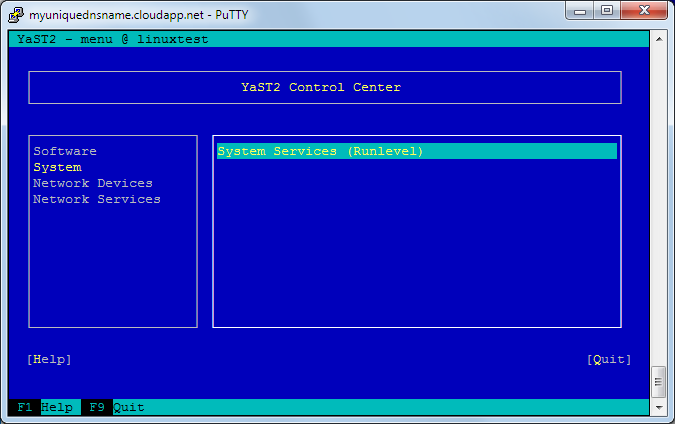
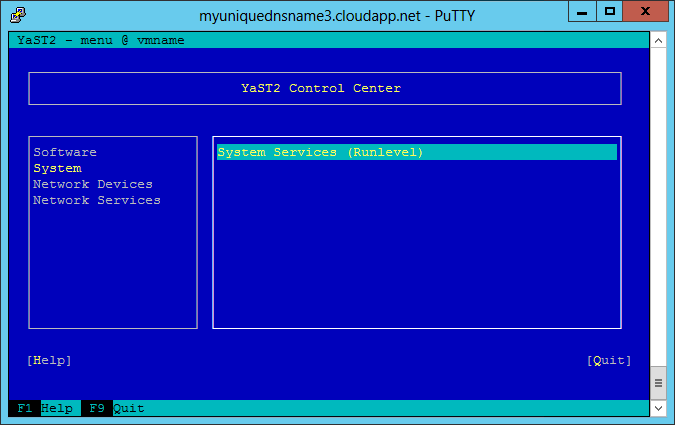
- Fixed issue with Linux prerequisites. - Updated screenshots.

diff --git a/README.md b/README.md
@@ -12,18 +12,6 @@ In this Hands-on Lab, you will learn how to use the Windows Azure IaaS platform 
 
 Visit our [GitHub Homepage](http://windowsazure-trainingkit.github.com/) for more information about the **Windows Azure Training Kit**.
 
-### Repository Structure ###
-
-In the **root** folder of this repository you will find the Hands-On Lab (HOL) document, **HOL.md**. Before beginning with the HOL exercises, make sure you have followed all the required steps indicated at the setup section of the HOL document. 
-
-In the **Source** folder you will find the source code of each of the exercises, as well as the assets and setup scripts. Throughout the HOL you will be instructed to open and explore the different solutions from the source folder. It is typically comprised of the following subfolders:
-
-- **Assets:** This folder contains files that are used throughout the exercises.
-- **_Exercise Name_:** Each exercise that requires a programming solution has its own code folder.
-  - **Begin:** The begin solution is the initial incomplete solution that you will finish by following the steps of the corresponding exercise.
-  - **End:** The end solution is the final result you will achieve at the end of an exercise.
-- **Setup:** This folder contains the dependency files and the setup scripts necessary to initialize specific configurations of the lab, being its execution is required in the majority of the Hands-on Labs.
-
 ### Get Started ###
 
 In order to run the solutions of the exercises provided by this lab you will first need configure your environment and install any necessary prerequisites such as runtimes, components, or libraries. For your ease, you can download and run the dependency checker [here] (http://contentinstaller.blob.core.windows.net/dependency-checker/DC.exe) to automatically check and install all the requirements.  Each lab also includes setup instructions for getting started.

diff --git a/HOL.md b/HOL.md
@@ -213,11 +213,13 @@ In this task, you will install and configure an Apache HTTP Server and MySQL Dat
 	
 	_Configuring HTTP Server_
 
-1. Follow the Wizard steps to complete the configuration using the default values.
+1. Follow the Wizard steps pressing **F10** on each step to complete the configuration using the default values.
 
-1. Select **Network Services**. Press the right arrow key and select **HTTP Server** again.
+	![HTTP Service Setup Wizard](images/http-service-setup-wizard.png?raw=true "HTTP Service Setup Wizard")
 
-1. Press **ALT+E** to enable the HTTP services and then press **ALT+F** to confirm the changes.
+	_HTTP Service Setup Wizard_
+
+1. Select **Network Services** and select **HTTP Server** again. Press **ALT+E** to enable the HTTP services and then press **ALT+F** to confirm the changes.
 
 	![Enabling HTTP service](images/enabling-http-service.png?raw=true)
 
@@ -229,7 +231,7 @@ In this task, you will install and configure an Apache HTTP Server and MySQL Dat
 
 	_Configuring System Services_
 
-1. Scroll down until you find **mysql** and press **ALT+E** to enable the service. Wait until the service is running. Press **F10** to save the settings.
+1. Scroll down until you find **mysql** and press **ALT+E** to enable the service. Wait until the service is running and press **Enter** on the confurmation message. Press **F10** to save the settings.
 
 	![Enabling MySQL service](images/enabling-mysql-service.png?raw=true)
 
